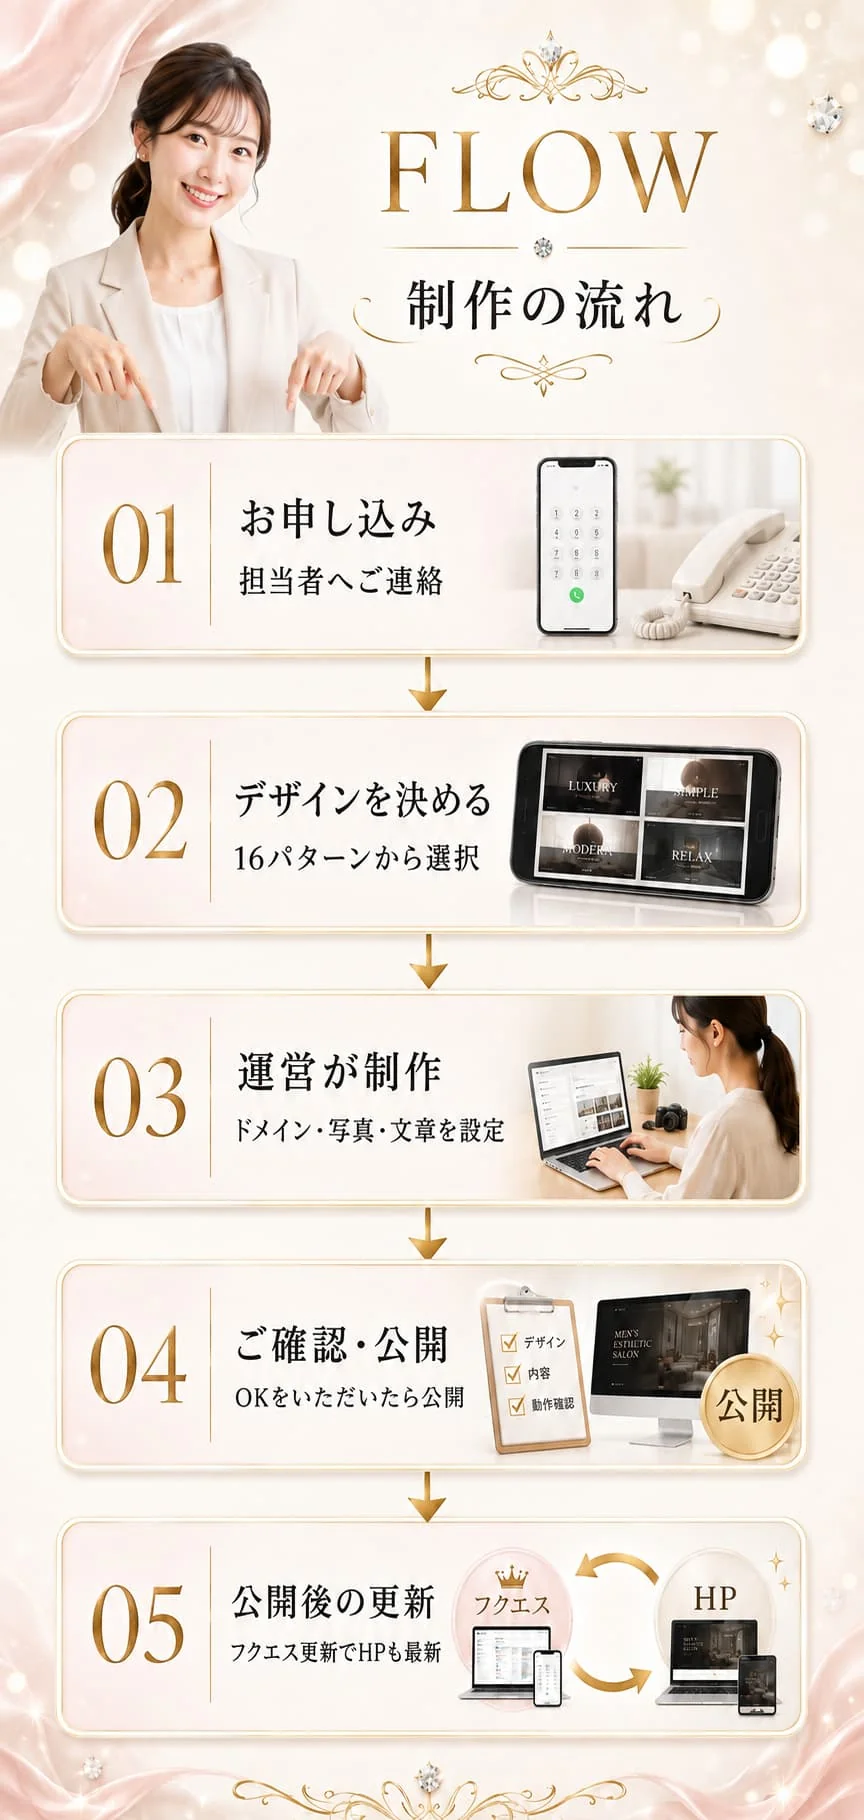
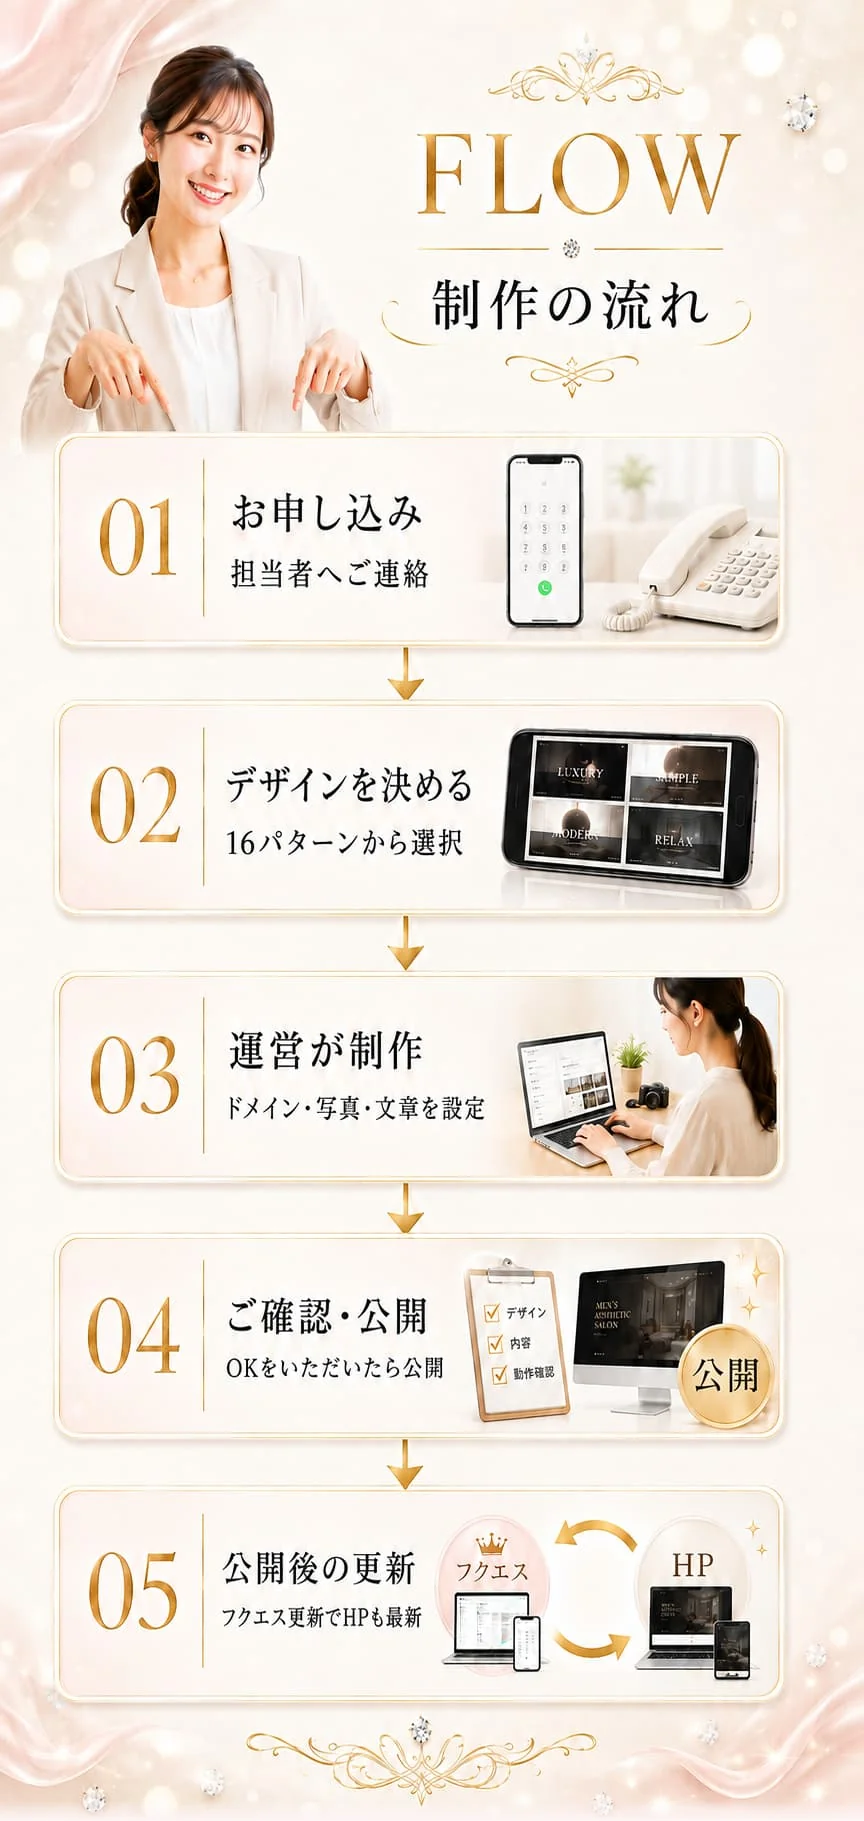
制作の流れのスマホ画像を差し替えて下端の継ぎ目を解消

diff --git a/src/app/hp/templates/page.tsx b/src/app/hp/templates/page.tsx
@@ -39,7 +39,12 @@ import { buildBreadcrumbJsonLd, toJsonLdString } from '@/app/lib/jsonLd';
 //   design-pc.webp（1717×916・約1.87:1）/ design-sp.webp（862×1935・約1:2.24）
 //   price-pc.webp（1717×916・約1.87:1）/ price-sp.webp（864×1821・約1:2.11）
 //     … 料金の数字が焼き込み。作り直すときは sr-only と SERVICE_JSON_LD の数字も必ず揃えること。
-//   flow-pc.webp（1717×916・約1.87:1）/ flow-sp.webp（864×1820・約1:2.11）
+//   flow-pc.webp（1717×916・約1.87:1）/ flow-sp.webp（864×1821・約1:2.11）
+//     ★ flow-sp は 2026-08-16 に作り直し（下端の継ぎ目が 37 と全ブロック中で最大だったため）。
+//       いただいた原本のままだと下端24。ページ背景となじませるため、下端20pxだけを
+//       #fdf5f5 へグラデーションで寄せる後処理を入れてある（design-sp の外周と同じ考え方）。結果は下端1。
+//       次に作り直してもらうときは【下端20〜30pxを #fdf5f5 に寄せた状態】で書き出してもらうと、この後処理が不要になる。
+//       高さが1820→1821に1px変わっているので、<source> の height と tools-verify-hp.mjs の spWH も直すこと。
 //     … ステップ02の「16パターンから選択」が焼き込み（sr-only は HP_PATTERN_COUNT で自動計算）。
 //   ＋直下のボタン btn-design-pc.webp（1564×413）/ btn-design-sp.webp（900×276）… どちらも背景が透明の webp。
 //     ★元データは黒背景の JPEG で届いたため、黒を抜いて透明化し、暗い背景用に描かれていた
@@ -515,7 +520,7 @@ export default function HpTemplatesPage() {
             フッターとの段差よけの役目はFAQブロック側の pb-12 sm:pb-14 に移した。 */}
       <section className="pt-10 sm:pt-12 pb-12 sm:pb-14">
         <picture>
-          <source media="(max-width: 639px)" srcSet="/hp-lp/flow-sp.webp" width={864} height={1820} />
+          <source media="(max-width: 639px)" srcSet="/hp-lp/flow-sp.webp" width={864} height={1821} />
           <img
             src="/hp-lp/flow-pc.webp"
             loading="lazy"
